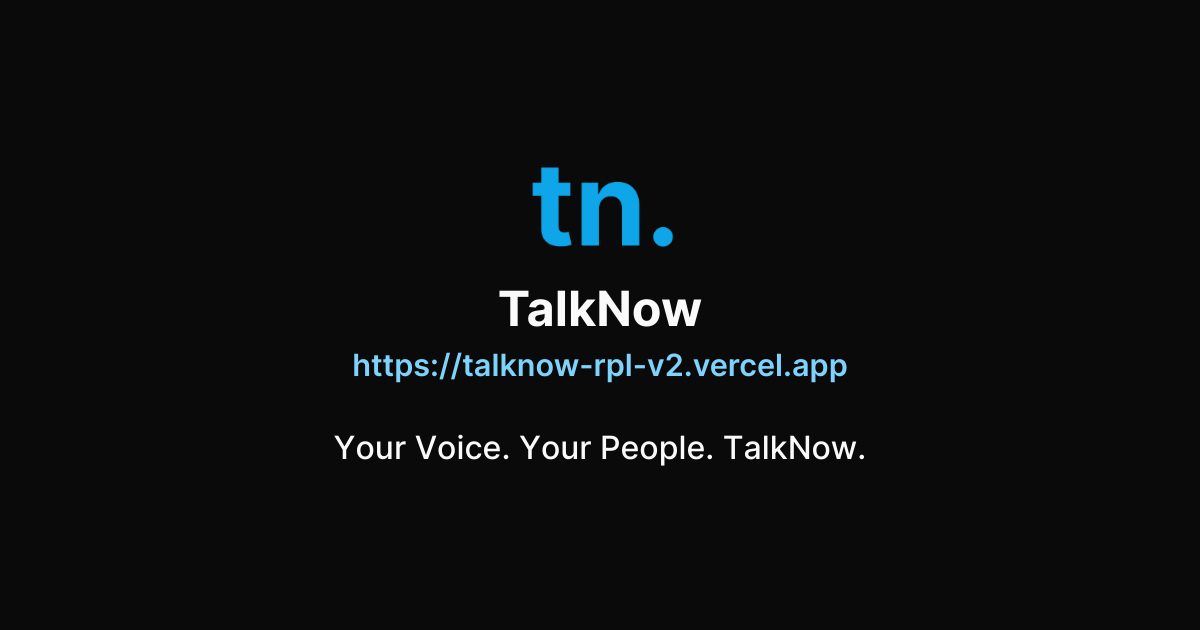
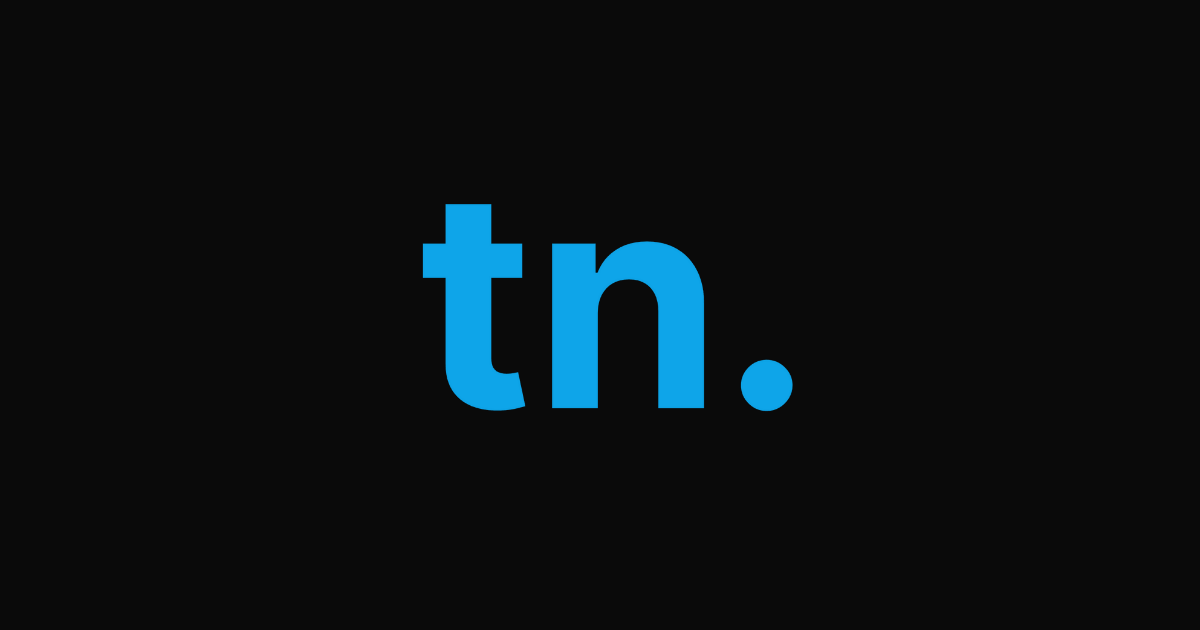
feat: update opengraph config

Changed region(s): [[0.2775, 0.2714, 0.7092, 0.6635], [0.2775, 0.6937, 0.7092, 0.754]]

diff --git a/src/constant/config.ts b/src/constant/config.ts
@@ -1,7 +1,6 @@
 export const siteConfig = {
   title: 'TalkNow',
-  description:
-    'A starter for Next.js, Tailwind CSS, and TypeScript with Absolute Import, Seo, Link component, pre-configured with Husky',
+  description: '',
   /** Without additional '/' on the end, e.g. https://theodorusclarence.com */
   url: 'https://talknow-rpl-v2.vercel.app',
 };
